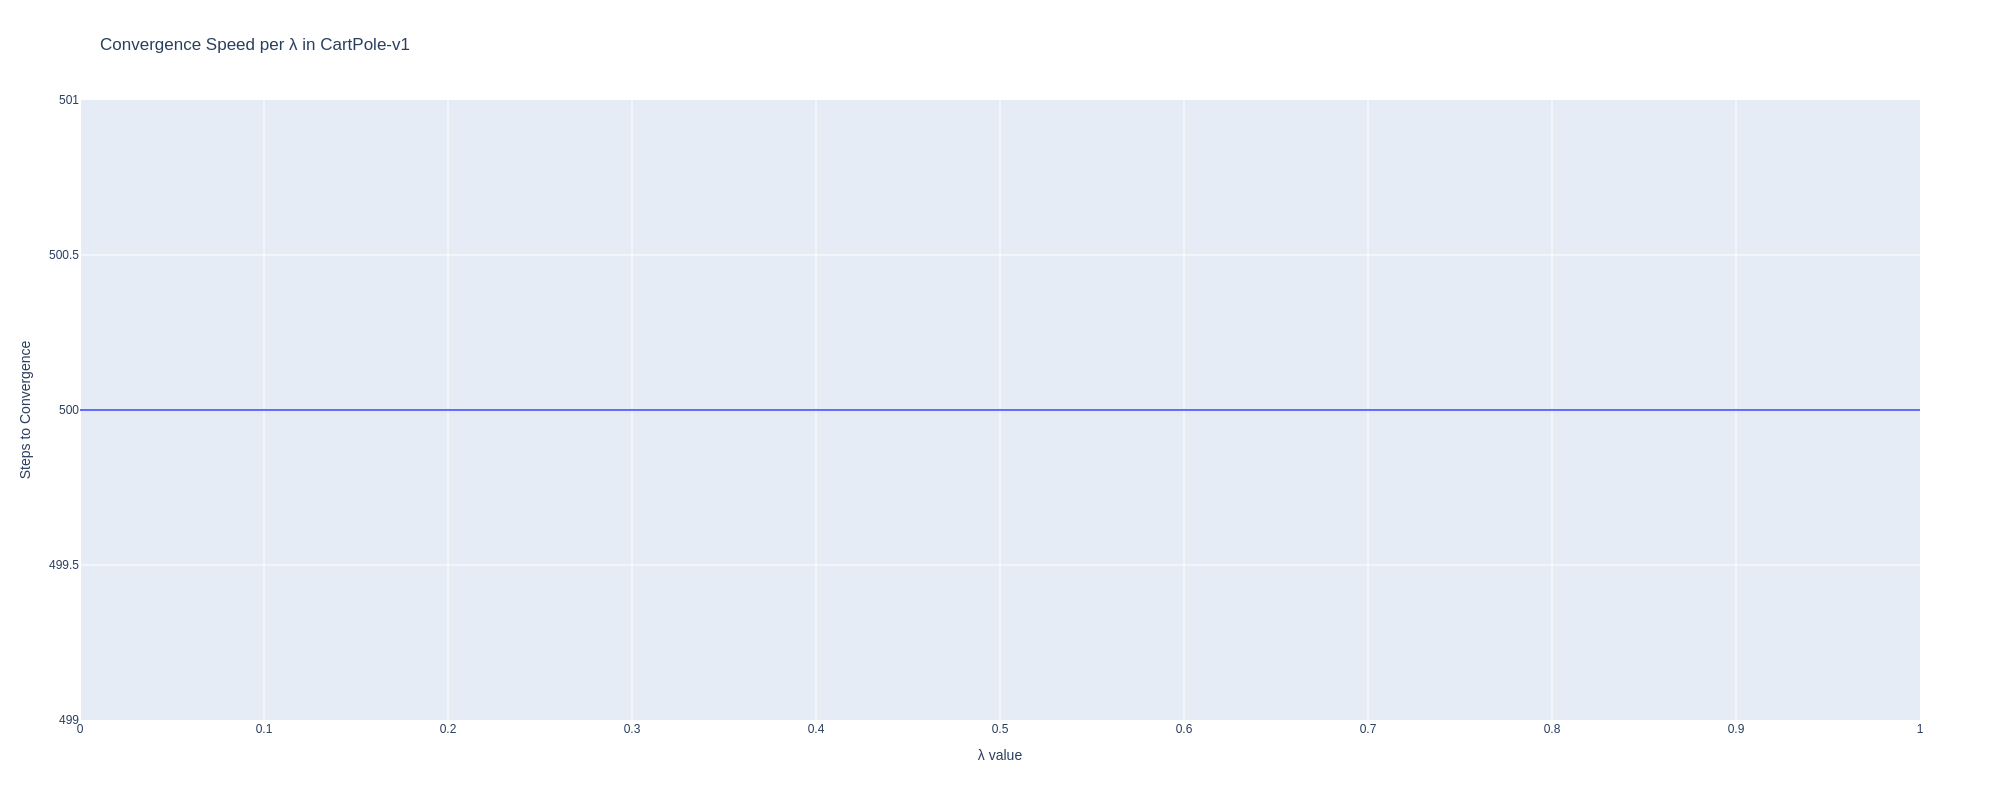
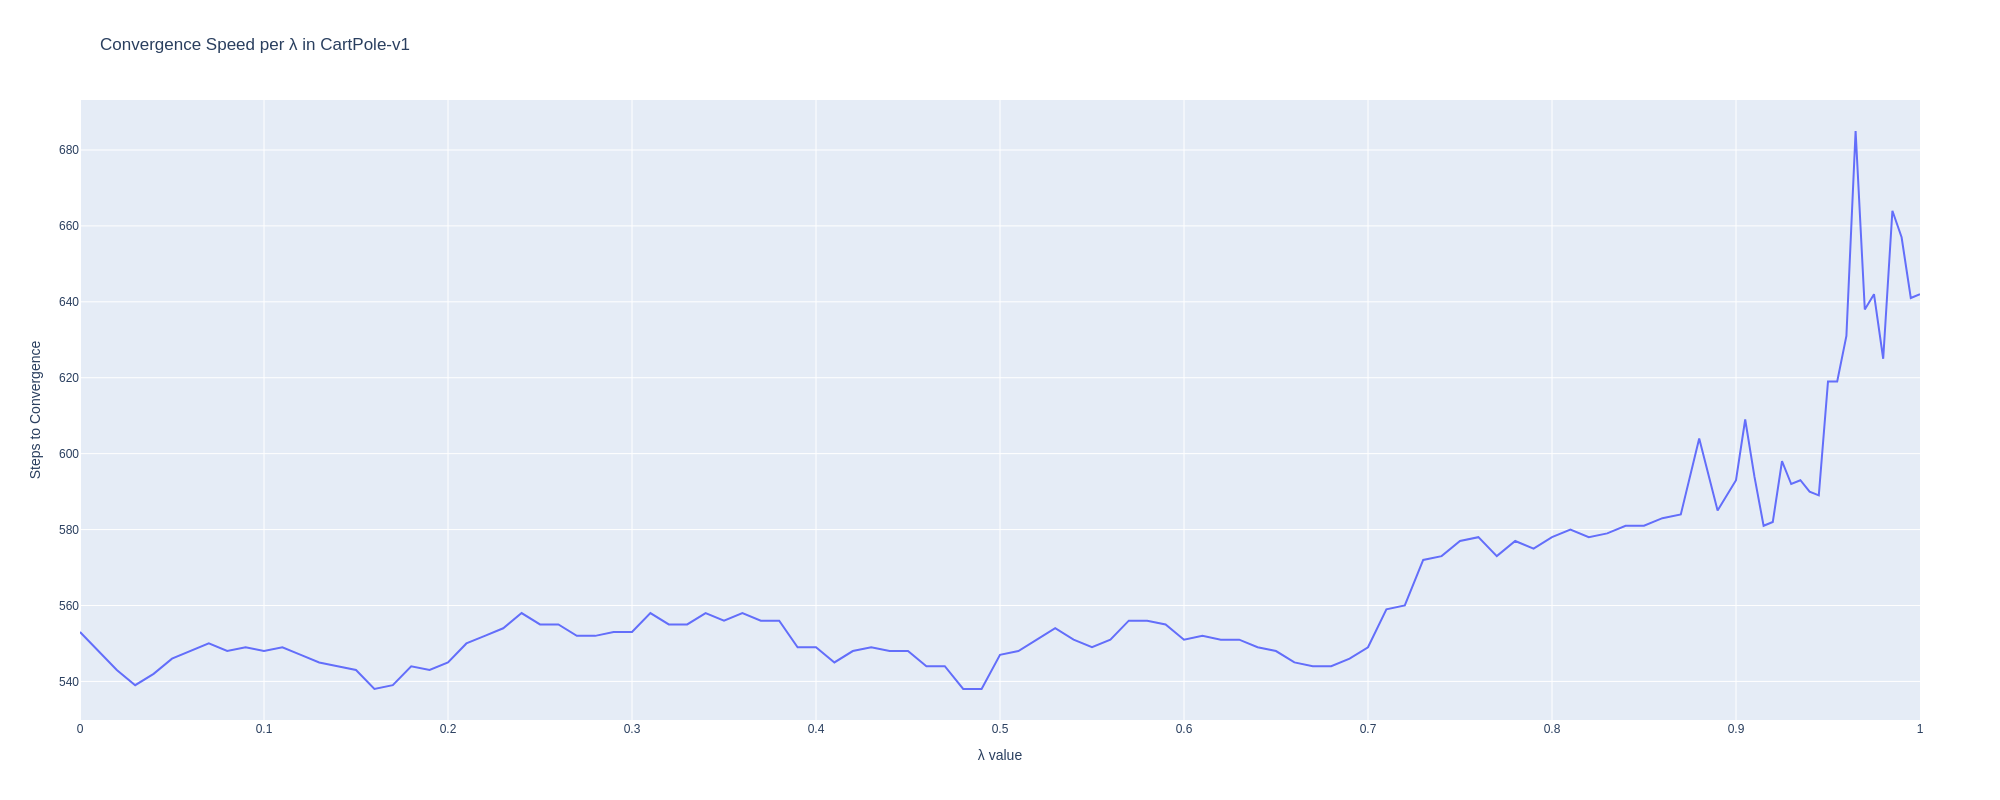
Plot update

diff --git a/plot_Convergence_speed.py b/plot_Convergence_speed.py
@@ -6,7 +6,7 @@ import numpy as np
 
 # Configs
 window_size = 2000
-theshold = 10
+theshold = 3
 
 # Recover env name from command line argument
 env_name = sys.argv[1]
